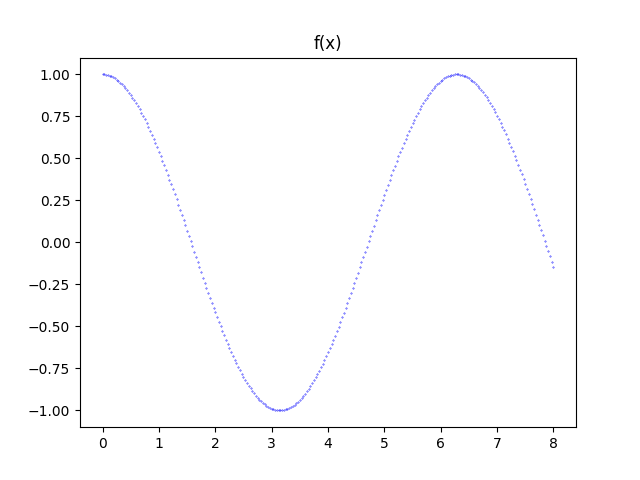
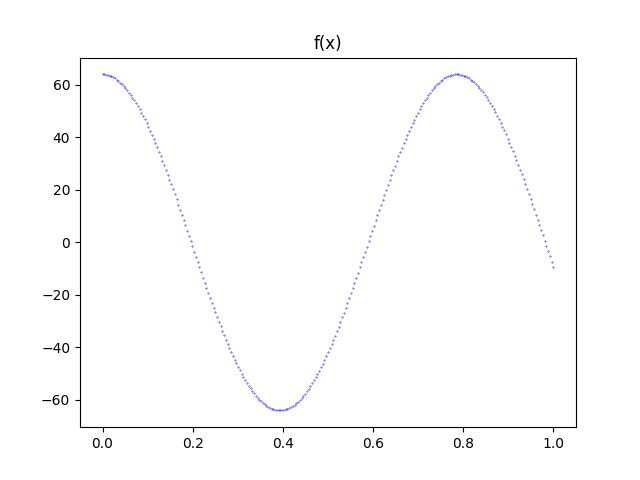
start processing

diff --git a/src/networks/PredNN.py b/src/networks/PredNN.py
@@ -12,12 +12,15 @@ class PredNN(CoreNN):
         - Uncertainity Quantification
     """
     
-    def __init__(self, pre, post, **kw):
+    def __init__(self, pre, post, proc, data, **kw):
         
         super(PredNN, self).__init__(**kw)
         # Functions for pre and post processing of inputs and outputs of the network
-        self.pre_process = pre
+        self.process_params = dict()
+        self.pre_process  = pre
         self.post_process = post
+        self.comp_process = proc
+        self.data_process = data
         # Empty list where samples of network parameters will be stored
         self.thetas = list() 
 
@@ -25,7 +28,7 @@ class PredNN(CoreNN):
         """ Computes output sampling with one given theta """
         self.nn_params = theta
         sample = self.forward(inputs, split=True)
-        return self.post_process(sample)
+        return self.post_process(sample, self.process_params)
     
     def __predict(self, inputs, n_thetas = None):
         """ 
@@ -33,7 +36,7 @@ class PredNN(CoreNN):
         out_sol: list with len n_thetas, of tf tensor (n_sample, n_out_sol)
         out_par: list with len n_thetas, of tf tensor (n_sample, n_out_par)
         """
-        inputs = self.pre_process(inputs)
+        inputs = self.pre_process(inputs, self.process_params)
         out_sol = list()
         out_par = list()
 

diff --git a/src/networks/equations/Equation.py b/src/networks/equations/Equation.py
@@ -23,9 +23,25 @@ class Equation(ABC):
         need to be overridden in child classes
         """
         return None
+    
+    @abstractmethod
+    def comp_process(self, dataset):
+        """
+        Extracts the relevant features from the dataset to perform pre-processing, 
+        need to be overridden in child classes
+        """
+        return None
 
     @abstractmethod
-    def pre_process(self, dataset):
+    def data_process(self, dataset, params):
+        """
+        Builds the pre-processed dataset, 
+        need to be overridden in child classes
+        """
+        return None
+
+    @abstractmethod
+    def pre_process(self, inputs, params):
         """
         Pre-processes the dataset given as input to the network, 
         need to be overridden in child classes
@@ -33,7 +49,7 @@ class Equation(ABC):
         return None
 
     @abstractmethod
-    def post_process(self, outputs):
+    def post_process(self, outputs, params):
         """
         Transforms back the output of the network, 
         need to be overridden in child classes

diff --git a/src/networks/equations/Laplace.py b/src/networks/equations/Laplace.py
@@ -22,14 +22,19 @@ class Laplace(Equation):
             lap = Operators.laplacian_vector(tape, u, x, self.comp_dim.n_out_sol)
         return lap + f
 
-    def pre_process(self, dataset):
-        """
-        Pre-process in Laplace problem is the identity transformation
-        """
-        return dataset
+    def comp_process(self, dataset):
+        params = dict()
+        return params
 
-    def post_process(self, outputs):
-        """
-        Post-process in Laplace problem is the identity transformation
-        """
+    def data_process(self, dataset, params):
+        """ TO BE DONE """
+        new_dataset = dataset.copy()
+        return new_dataset
+
+    def pre_process(self, inputs, params):
+        """ Pre-process in Laplace problem is the identity transformation """
+        return inputs
+
+    def post_process(self, outputs, params):
+        """ Post-process in Laplace problem is the identity transformation """
         return outputs

diff --git a/src/networks/BayesNN.py b/src/networks/BayesNN.py
@@ -15,11 +15,15 @@ class BayesNN(PredNN, LossNN):
 
         equation  = self.__initialize_equation(par)
         comp_res  = equation.compute_residual
+        
         pre_proc  = equation.pre_process
         post_proc = equation.post_process
+        comp_proc = equation.comp_process
+        data_proc = equation.data_process
         
         super(BayesNN, self).__init__(par=par, comp_res=comp_res,
-                                      pre=pre_proc, post=post_proc)
+                                      pre=pre_proc, post=post_proc, 
+                                      proc=comp_proc, data=data_proc)
 
     def __initialize_losses(self):
         """ Initializes empty MSE and log-likelihood dictionaries """

diff --git a/src/generate_data.py b/src/generate_data.py
@@ -161,7 +161,7 @@ analytical_domain = {
     "laplace1D_cos": {
         "mesh_type": "sobol",
         "resolution": 200,
-        "domain": [(0,8)]
+        "domain": [(0,1)]
         },
     "laplace2D_cos": {
         "mesh_type": "sobol",
@@ -172,8 +172,8 @@ analytical_domain = {
 
 analytical_solution = {
     "laplace1D_cos": {
-        "u": lambda *x: np.cos(x[0]),
-        "f": lambda *x: np.cos(x[0])
+        "u": lambda *x: np.cos(x[0]*8),
+        "f": lambda *x: 64*np.cos(x[0]*8)
         },
     "laplace2D_cos": {
         "u": lambda *x: np.cos(x[0])*np.cos(x[1]),

diff --git a/src/algorithms/HMC.py b/src/algorithms/HMC.py
@@ -10,9 +10,10 @@ class HMC(Algorithm):
     def __init__(self, bayes_nn, param_method, debug_flag):
         super().__init__(bayes_nn, param_method, debug_flag)
         
+        if param_method["burn_in"] >= param_method["epochs"]:
+            raise Exception("Burn-in is too high for this number of epochs!")
         self.burn_in = param_method["burn_in"]
         self.HMC_L   = param_method["HMC_L"]
-        #self.HMC_dt  = param_method["HMC_K"] / self.HMC_L
         self.HMC_dt  = param_method["HMC_dt"]
         self.eta = 0.01
         self.selected = list()

diff --git a/src/algorithms/Algorithm.py b/src/algorithms/Algorithm.py
@@ -26,8 +26,8 @@ class Algorithm(ABC):
 
     @data_train.setter
     def data_train(self, dataset):
-        processed_data = self.model.pre_process(dataset)
-        self.data = processed_data
+        self.model.process_params = self.model.comp_process(dataset)
+        self.data = self.model.data_process(dataset, self.model.process_params)
 
     def __train_step(self, epoch):
 
